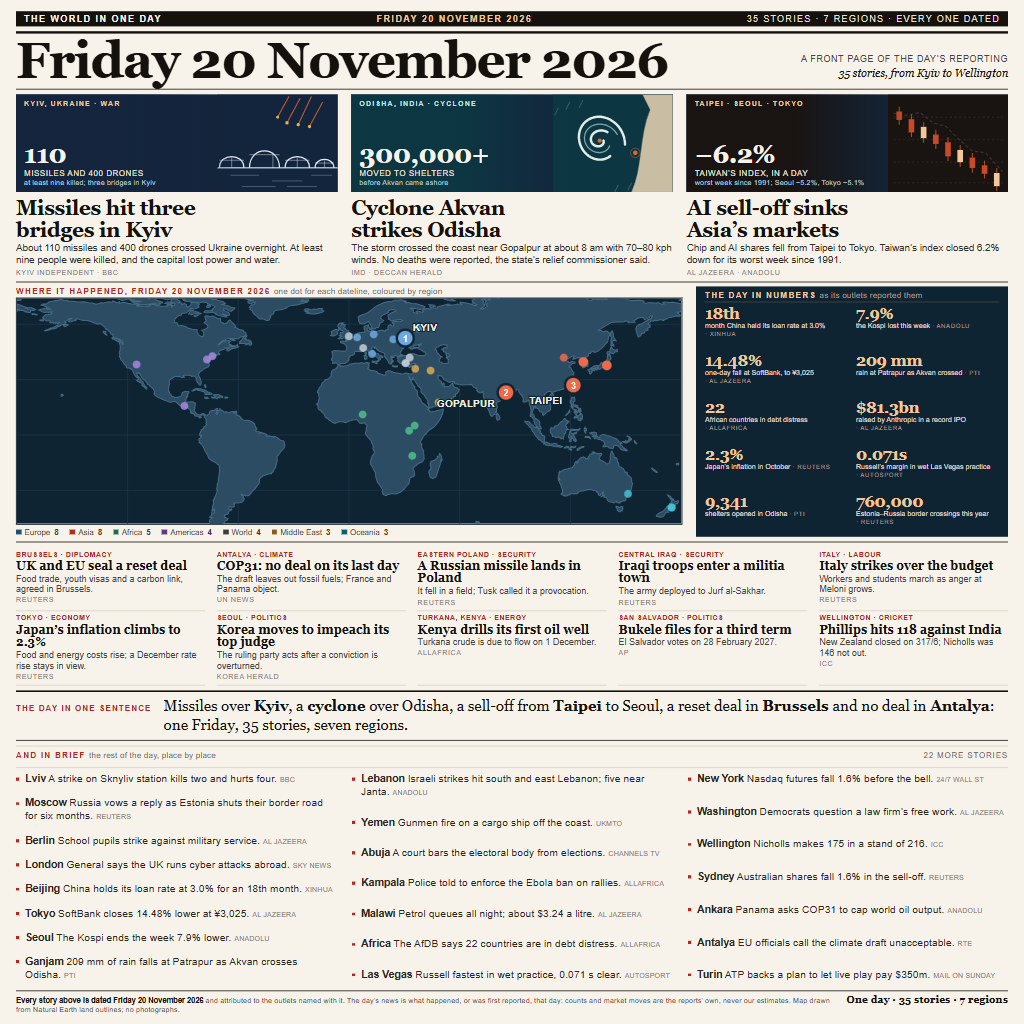
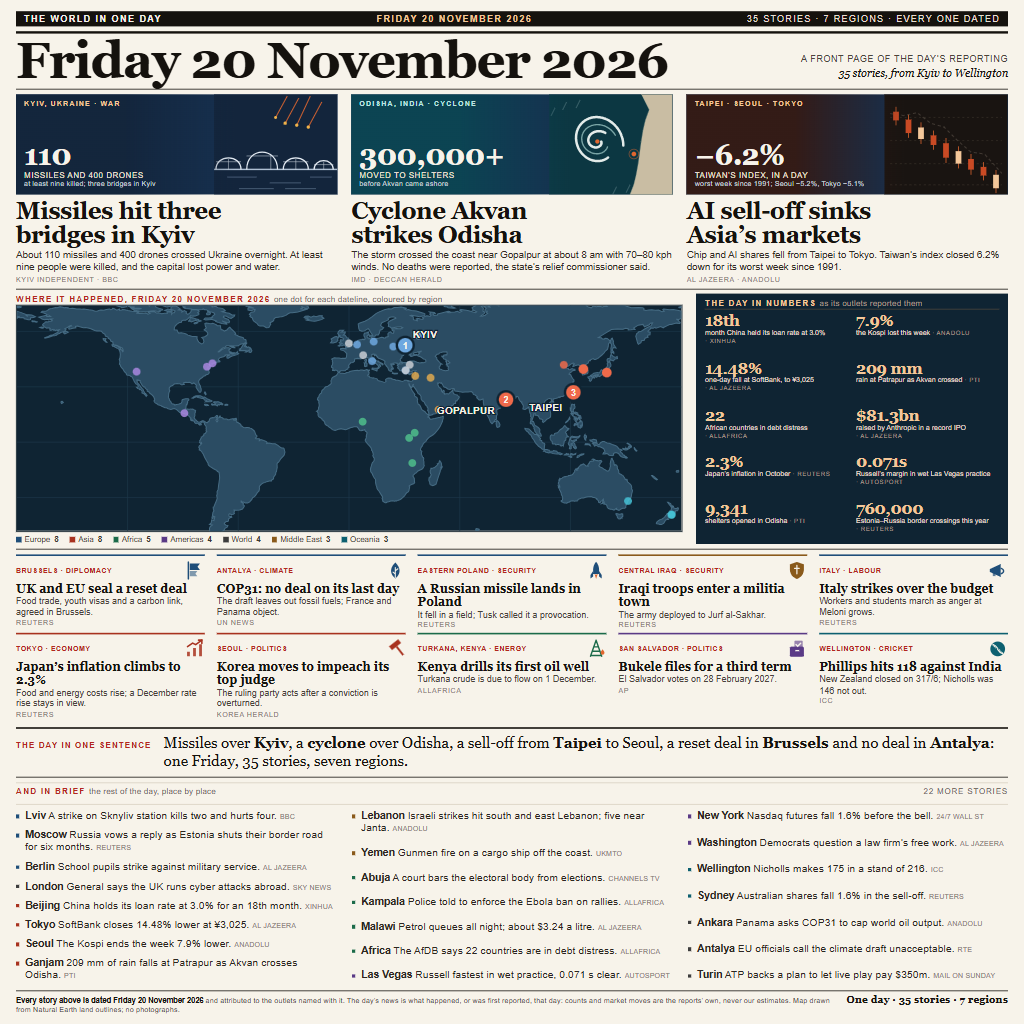
Cards: five by two with a drawn glyph and region-colour rule each; 24px lead headlines

diff --git a/tools/poster.html b/tools/poster.html
@@ -22,22 +22,22 @@
 
   .leads { display:grid; grid-template-columns:repeat(3,minmax(0,1fr)); gap:0 14px }
   .lead { min-width:0; display:flex; flex-direction:column }
-  .panel { position:relative; display:flex; height:98px; overflow:hidden; background:#13253c }
-  .panel .part { position:absolute; right:0; top:0; width:120px; height:98px }
-  .panel .part svg { display:block; width:120px; height:98px }
+  .panel { position:relative; display:flex; height:100px; overflow:hidden; background:#16304f }
+  .panel .part { position:absolute; right:0; top:0; width:124px; height:100px }
+  .panel .part svg { display:block; width:124px; height:100px }
   .panel::after { content:''; position:absolute; inset:0; background:linear-gradient(90deg, rgba(19,37,60,.97) 34%, rgba(19,37,60,0) 68%); z-index:1 }
-  .lead:nth-child(2) .panel::after { background:linear-gradient(90deg, rgba(12,55,66,.97) 34%, rgba(12,55,66,0) 68%) }
-  .lead:nth-child(3) .panel::after { background:linear-gradient(90deg, rgba(25,20,17,.97) 34%, rgba(25,20,17,0) 68%) }
+  .lead:nth-child(2) .panel::after { background:linear-gradient(90deg, rgba(11,68,83,.97) 34%, rgba(11,68,83,0) 68%) }
+  .lead:nth-child(3) .panel::after { background:linear-gradient(90deg, rgba(52,26,21,.97) 34%, rgba(52,26,21,0) 68%) }
   .panel-txt { position:relative; z-index:2; padding:5px 0 5px 8px; width:100%; color:#f7f3ea;
     display:flex; flex-direction:column }
   .pk { font-size:7.4px; letter-spacing:.13em; text-transform:uppercase; color:#f3c79a; font-weight:700 }
-  .pfig { font-family:Georgia,serif; font-size:26px; font-weight:700; line-height:1; letter-spacing:-.02em; margin-top:auto }
+  .pfig { font-family:Georgia,serif; font-size:29px; font-weight:700; line-height:1; letter-spacing:-.02em; margin-top:auto }
   .punit { font-size:8.2px; letter-spacing:.05em; text-transform:uppercase; color:#ece3d5; margin-top:1px }
-  .psub { font-size:7.5px; line-height:1.18; color:#bcc9d2; margin-top:1px; max-width:66% }
+  .psub { font-size:7.5px; line-height:1.18; color:#c7d2da; margin-top:1px; max-width:62% }
   .lead:nth-child(2) .pk { color:#bfe3e0 }
   .lead:nth-child(3) .pk { color:#f3c79a }
 
-  .lead h3 { font-family:Georgia,serif; font-size:21px; line-height:1.03; letter-spacing:-.018em; margin:5px 0 2px }
+  .lead h3 { font-family:Georgia,serif; font-size:24px; line-height:1.01; letter-spacing:-.018em; margin:5px 0 2px }
   .lead .deck { font-size:9.8px; line-height:1.22; color:#332d26; min-height:24px }
   .src { font-size:7.4px; letter-spacing:.055em; text-transform:uppercase; color:#8a8074; margin-top:2px }
 
@@ -63,8 +63,11 @@
   .ns { color:#a89c8d; font-size:6.4px; letter-spacing:.06em; text-transform:uppercase; white-space:nowrap }
 
   .cards { display:grid; grid-template-columns:repeat(5,minmax(0,1fr)); gap:0 12px; align-content:start }
-  .card { padding:3px 0 4px; border-bottom:1px solid var(--soft); min-width:0 }
-  .ck { font-size:6.9px; letter-spacing:.08em; text-transform:uppercase; color:var(--accent); font-weight:700; white-space:nowrap; overflow:hidden }
+  .card { padding:4px 0 4px; border-top:2px solid var(--gc); min-width:0 }
+  .chead { display:flex; justify-content:space-between; align-items:center; gap:5px }
+  .ck { flex:1 1 auto; min-width:0; font-size:6.9px; letter-spacing:.08em; text-transform:uppercase; color:var(--accent); font-weight:700; white-space:nowrap; overflow:hidden }
+  .cg { flex:0 0 21px; width:21px; height:21px; color:var(--gc) }
+  .cg svg { display:block; width:21px; height:21px }
   .card h4 { font-family:Georgia,serif; font-size:12.4px; line-height:1.06; letter-spacing:-.01em; margin:1px 0 }
   .card p { font-size:9px; line-height:1.18; color:#4a433b }
   .card .src { margin-top:1px }
@@ -82,8 +85,8 @@
   .briefs { flex:1; min-height:0; border-top:1px solid var(--soft); padding:5px 0 4px; margin-top:3px;
     display:grid; grid-template-columns:repeat(3,minmax(0,1fr)); gap:0 16px }
   ul.b { list-style:none; display:flex; flex-direction:column; justify-content:space-between; min-width:0 }
-  ul.b li { font-size:10.5px; line-height:1.23; color:#2b2620; padding-left:9px; position:relative }
-  ul.b li::before { content:''; position:absolute; left:0; top:5px; width:3px; height:3px; background:var(--accent) }
+  ul.b li { font-size:10.5px; line-height:1.16; color:#2b2620; padding-left:9px; position:relative }
+  ul.b li::before { content:''; position:absolute; left:0; top:5px; width:3.5px; height:3.5px; background:var(--gc) }
   ul.b li b { font-weight:700 }
   .bs { color:#8a8074; font-size:7px; letter-spacing:.03em; text-transform:uppercase; white-space:nowrap }
 
@@ -210,62 +213,62 @@
   </section>
 
   <section class="cards">
-  <article class="card">
-    <div class="ck">BRUSSELS · DIPLOMACY</div>
+  <article class="card" style="--gc:#1f4e79">
+    <div class="chead"><span class="ck">BRUSSELS · DIPLOMACY</span><span class="cg"><svg viewBox="0 0 24 24" aria-hidden="true"><path d="M5 2.5v19" stroke="currentColor" stroke-width="1.7" stroke-linecap="round"/><path d="M6.6 4h11.6l-2.8 3.7 2.8 3.7H6.6z" fill="currentColor"/><path d="M6.6 12.6h8.6l-2.2 3 2.2 3H6.6z" fill="currentColor" opacity=".55"/></svg></span></div>
     <h4>UK and EU seal a reset deal</h4>
     <p>Food trade, youth visas and a carbon link, agreed in Brussels.</p>
     <div class="src">Reuters</div>
   </article>
-  <article class="card">
-    <div class="ck">ANTALYA · CLIMATE</div>
+  <article class="card" style="--gc:#1f4e79">
+    <div class="chead"><span class="ck">ANTALYA · CLIMATE</span><span class="cg"><svg viewBox="0 0 24 24" aria-hidden="true"><path d="M12 21C5.8 16.2 5.4 9.2 12 3c6.6 6.2 6.2 13.2 0 18z" fill="currentColor"/><path d="M12 20V8.5M12 12.5l3-2.5M12 16l-2.6-2.2" stroke="#f7f3ea" stroke-width="1.2" fill="none" stroke-linecap="round"/></svg></span></div>
     <h4>COP31: no deal on its last day</h4>
     <p>The draft leaves out fossil fuels; France and Panama object.</p>
     <div class="src">UN News</div>
   </article>
-  <article class="card">
-    <div class="ck">EASTERN POLAND · SECURITY</div>
+  <article class="card" style="--gc:#1f4e79">
+    <div class="chead"><span class="ck">EASTERN POLAND · SECURITY</span><span class="cg"><svg viewBox="0 0 24 24" aria-hidden="true"><path d="M12 2c2.3 2.8 3.4 5.9 3.4 9.4V16H8.6v-4.6C8.6 7.9 9.7 4.8 12 2z" fill="currentColor"/><path d="M8.6 12.6 5.6 17v4l3-2.2M15.4 12.6 18.4 17v4l-3-2.2" fill="currentColor"/><path d="M10.4 16.6h3.2L12 21.6z" fill="#e0662f"/></svg></span></div>
     <h4>A Russian missile lands in Poland</h4>
     <p>It fell in a field; Tusk called it a provocation.</p>
     <div class="src">Reuters</div>
   </article>
-  <article class="card">
-    <div class="ck">CENTRAL IRAQ · SECURITY</div>
+  <article class="card" style="--gc:#8a5a1b">
+    <div class="chead"><span class="ck">CENTRAL IRAQ · SECURITY</span><span class="cg"><svg viewBox="0 0 24 24" aria-hidden="true"><path d="M12 2.2 20 5v6.3c0 5-3.4 8.7-8 10.5-4.6-1.8-8-5.5-8-10.5V5z" fill="currentColor"/><path d="M12 6.2v9.6M9.4 9.6h5.2" stroke="#f7f3ea" stroke-width="1.4" stroke-linecap="round"/></svg></span></div>
     <h4>Iraqi troops enter a militia town</h4>
     <p>The army deployed to Jurf al-Sakhar.</p>
     <div class="src">Reuters</div>
   </article>
-  <article class="card">
-    <div class="ck">ITALY · LABOUR</div>
+  <article class="card" style="--gc:#1f4e79">
+    <div class="chead"><span class="ck">ITALY · LABOUR</span><span class="cg"><svg viewBox="0 0 24 24" aria-hidden="true"><path d="M3 10.4 15.4 4.6v14.8L3 13.6z" fill="currentColor"/><path d="M15.4 9.2c2.2.7 3.4 1.8 3.4 3.3s-1.2 2.6-3.4 3.3" fill="none" stroke="currentColor" stroke-width="1.5"/><path d="M6.4 14.2v4.2h3.1v-3.2" fill="currentColor" opacity=".7"/></svg></span></div>
     <h4>Italy strikes over the budget</h4>
     <p>Workers and students march as anger at Meloni grows.</p>
     <div class="src">Reuters</div>
   </article>
-  <article class="card">
-    <div class="ck">TOKYO · ECONOMY</div>
+  <article class="card" style="--gc:#a8321f">
+    <div class="chead"><span class="ck">TOKYO · ECONOMY</span><span class="cg"><svg viewBox="0 0 24 24" aria-hidden="true"><path d="M3.5 20.5h3.2v-5.2H3.5zM10.4 20.5h3.2v-9.4h-3.2zM17.3 20.5h3.2V6.8h-3.2z" fill="currentColor" opacity=".85"/><path d="M4 9.4l5.8-4 3.6 1.8L20.4 2" fill="none" stroke="currentColor" stroke-width="1.8" stroke-linecap="round"/><path d="M16.6 2h3.8v3.8" fill="none" stroke="currentColor" stroke-width="1.8" stroke-linecap="round"/></svg></span></div>
     <h4>Japan’s inflation climbs to 2.3%</h4>
     <p>Food and energy costs rise; a December rate rise stays in view.</p>
     <div class="src">Reuters</div>
   </article>
-  <article class="card">
-    <div class="ck">SEOUL · POLITICS</div>
+  <article class="card" style="--gc:#a8321f">
+    <div class="chead"><span class="ck">SEOUL · POLITICS</span><span class="cg"><svg viewBox="0 0 24 24" aria-hidden="true"><g transform="rotate(-38 12 7.5)"><rect x="5.4" y="4.4" width="13.2" height="5.4" rx="1.1" fill="currentColor"/><rect x="10.9" y="9.6" width="2.2" height="12.4" rx="1" fill="currentColor"/></g></svg></span></div>
     <h4>Korea moves to impeach its top judge</h4>
     <p>The ruling party acts after a conviction is overturned.</p>
     <div class="src">Korea Herald</div>
   </article>
-  <article class="card">
-    <div class="ck">TURKANA, KENYA · ENERGY</div>
+  <article class="card" style="--gc:#1c6b4a">
+    <div class="chead"><span class="ck">TURKANA, KENYA · ENERGY</span><span class="cg"><svg viewBox="0 0 24 24" aria-hidden="true"><path d="M12 2 5.6 20.5M12 2l6.4 18.5M8 14.6h8M9.3 9.7h5.4M6.6 19.6h10.8" fill="none" stroke="currentColor" stroke-width="1.6" stroke-linecap="round"/><path d="M19.4 12.4c1.5 1.9 2.2 3.1 2.2 4.1a2.2 2.2 0 0 1-4.4 0c0-1 .7-2.2 2.2-4.1z" fill="#e0662f"/></svg></span></div>
     <h4>Kenya drills its first oil well</h4>
     <p>Turkana crude is due to flow on 1 December.</p>
     <div class="src">allAfrica</div>
   </article>
-  <article class="card">
-    <div class="ck">SAN SALVADOR · POLITICS</div>
+  <article class="card" style="--gc:#5a3a86">
+    <div class="chead"><span class="ck">SAN SALVADOR · POLITICS</span><span class="cg"><svg viewBox="0 0 24 24" aria-hidden="true"><rect x="4" y="9.4" width="16" height="11.6" rx="1.2" fill="currentColor"/><rect x="9.2" y="2.6" width="9.4" height="9.2" rx="1" fill="currentColor" opacity=".6"/><path d="M11 7.1l1.9 1.9 3.4-3.4" fill="none" stroke="#f7f3ea" stroke-width="1.6" stroke-linecap="round"/><rect x="10.2" y="13.2" width="4.4" height="1.5" fill="#f7f3ea"/></svg></span></div>
     <h4>Bukele files for a third term</h4>
     <p>El Salvador votes on 28 February 2027.</p>
     <div class="src">AP</div>
   </article>
-  <article class="card">
-    <div class="ck">WELLINGTON · CRICKET</div>
+  <article class="card" style="--gc:#0d6070">
+    <div class="chead"><span class="ck">WELLINGTON · CRICKET</span><span class="cg"><svg viewBox="0 0 24 24" aria-hidden="true"><circle cx="12" cy="12" r="8.4" fill="currentColor"/><path d="M6.4 6.6c3 1.1 4.6 3.1 5.7 4.9M17.6 17.4c-3-1.1-4.6-3.1-5.7-4.9" fill="none" stroke="#f7f3ea" stroke-width="1.3" stroke-linecap="round"/><g stroke="#f7f3ea" stroke-width="1"><path d="M7.4 8.2 6.4 7.4M8.9 9.7l-1-.8M10.4 11.2l-1-.8M16.6 15.8l1 .8M15.1 14.3l1 .8M13.6 12.8l1 .8"/></g></svg></span></div>
     <h4>Phillips hits 118 against India</h4>
     <p>New Zealand closed on 317/6; Nicholls was 146 not out.</p>
     <div class="src">ICC</div>
@@ -278,7 +281,7 @@
   </section>
 
   <section class="briefs-head"><h5>And in brief <span>the rest of the day, place by place</span></h5><span class="cnt">22 more stories</span></section>
-  <section class="briefs"><ul class="b"><li><b>Lviv</b> A strike on Sknyliv station kills two and hurts four. <span class="bs">BBC</span></li><li><b>Moscow</b> Russia vows a reply as Estonia shuts their border road for six months. <span class="bs">Reuters</span></li><li><b>Berlin</b> School pupils strike against military service. <span class="bs">Al Jazeera</span></li><li><b>London</b> General says the UK runs cyber attacks abroad. <span class="bs">Sky News</span></li><li><b>Beijing</b> China holds its loan rate at 3.0% for an 18th month. <span class="bs">Xinhua</span></li><li><b>Tokyo</b> SoftBank closes 14.48% lower at ¥3,025. <span class="bs">Al Jazeera</span></li><li><b>Seoul</b> The Kospi ends the week 7.9% lower. <span class="bs">Anadolu</span></li><li><b>Ganjam</b> 209 mm of rain falls at Patrapur as Akvan crosses Odisha. <span class="bs">PTI</span></li></ul><ul class="b"><li><b>Lebanon</b> Israeli strikes hit south and east Lebanon; five near Janta. <span class="bs">Anadolu</span></li><li><b>Yemen</b> Gunmen fire on a cargo ship off the coast. <span class="bs">UKMTO</span></li><li><b>Abuja</b> A court bars the electoral body from elections. <span class="bs">Channels TV</span></li><li><b>Kampala</b> Police told to enforce the Ebola ban on rallies. <span class="bs">allAfrica</span></li><li><b>Malawi</b> Petrol queues all night; about $3.24 a litre. <span class="bs">Al Jazeera</span></li><li><b>Africa</b> The AfDB says 22 countries are in debt distress. <span class="bs">allAfrica</span></li><li><b>Las Vegas</b> Russell fastest in wet practice, 0.071 s clear. <span class="bs">Autosport</span></li></ul><ul class="b"><li><b>New York</b> Nasdaq futures fall 1.6% before the bell. <span class="bs">24/7 Wall St</span></li><li><b>Washington</b> Democrats question a law firm’s free work. <span class="bs">Al Jazeera</span></li><li><b>Wellington</b> Nicholls makes 175 in a stand of 216. <span class="bs">ICC</span></li><li><b>Sydney</b> Australian shares fall 1.6% in the sell-off. <span class="bs">Reuters</span></li><li><b>Ankara</b> Panama asks COP31 to cap world oil output. <span class="bs">Anadolu</span></li><li><b>Antalya</b> EU officials call the climate draft unacceptable. <span class="bs">RTE</span></li><li><b>Turin</b> ATP backs a plan to let live play pay $350m. <span class="bs">Mail on Sunday</span></li></ul></section>
+  <section class="briefs"><ul class="b"><li style="--gc:#1f4e79"><b>Lviv</b> A strike on Sknyliv station kills two and hurts four. <span class="bs">BBC</span></li><li style="--gc:#1f4e79"><b>Moscow</b> Russia vows a reply as Estonia shuts their border road for six months. <span class="bs">Reuters</span></li><li style="--gc:#1f4e79"><b>Berlin</b> School pupils strike against military service. <span class="bs">Al Jazeera</span></li><li style="--gc:#3d3d3d"><b>London</b> General says the UK runs cyber attacks abroad. <span class="bs">Sky News</span></li><li style="--gc:#a8321f"><b>Beijing</b> China holds its loan rate at 3.0% for an 18th month. <span class="bs">Xinhua</span></li><li style="--gc:#a8321f"><b>Tokyo</b> SoftBank closes 14.48% lower at ¥3,025. <span class="bs">Al Jazeera</span></li><li style="--gc:#a8321f"><b>Seoul</b> The Kospi ends the week 7.9% lower. <span class="bs">Anadolu</span></li><li style="--gc:#a8321f"><b>Ganjam</b> 209 mm of rain falls at Patrapur as Akvan crosses Odisha. <span class="bs">PTI</span></li></ul><ul class="b"><li style="--gc:#8a5a1b"><b>Lebanon</b> Israeli strikes hit south and east Lebanon; five near Janta. <span class="bs">Anadolu</span></li><li style="--gc:#8a5a1b"><b>Yemen</b> Gunmen fire on a cargo ship off the coast. <span class="bs">UKMTO</span></li><li style="--gc:#1c6b4a"><b>Abuja</b> A court bars the electoral body from elections. <span class="bs">Channels TV</span></li><li style="--gc:#1c6b4a"><b>Kampala</b> Police told to enforce the Ebola ban on rallies. <span class="bs">allAfrica</span></li><li style="--gc:#1c6b4a"><b>Malawi</b> Petrol queues all night; about $3.24 a litre. <span class="bs">Al Jazeera</span></li><li style="--gc:#1c6b4a"><b>Africa</b> The AfDB says 22 countries are in debt distress. <span class="bs">allAfrica</span></li><li style="--gc:#5a3a86"><b>Las Vegas</b> Russell fastest in wet practice, 0.071 s clear. <span class="bs">Autosport</span></li></ul><ul class="b"><li style="--gc:#5a3a86"><b>New York</b> Nasdaq futures fall 1.6% before the bell. <span class="bs">24/7 Wall St</span></li><li style="--gc:#5a3a86"><b>Washington</b> Democrats question a law firm’s free work. <span class="bs">Al Jazeera</span></li><li style="--gc:#0d6070"><b>Wellington</b> Nicholls makes 175 in a stand of 216. <span class="bs">ICC</span></li><li style="--gc:#0d6070"><b>Sydney</b> Australian shares fall 1.6% in the sell-off. <span class="bs">Reuters</span></li><li style="--gc:#3d3d3d"><b>Ankara</b> Panama asks COP31 to cap world oil output. <span class="bs">Anadolu</span></li><li style="--gc:#3d3d3d"><b>Antalya</b> EU officials call the climate draft unacceptable. <span class="bs">RTE</span></li><li style="--gc:#3d3d3d"><b>Turin</b> ATP backs a plan to let live play pay $350m. <span class="bs">Mail on Sunday</span></li></ul></section>
 
   <footer class="foot">
     <p><b>Every story above is dated Friday 20 November 2026</b> and attributed to the outlets named with it.
